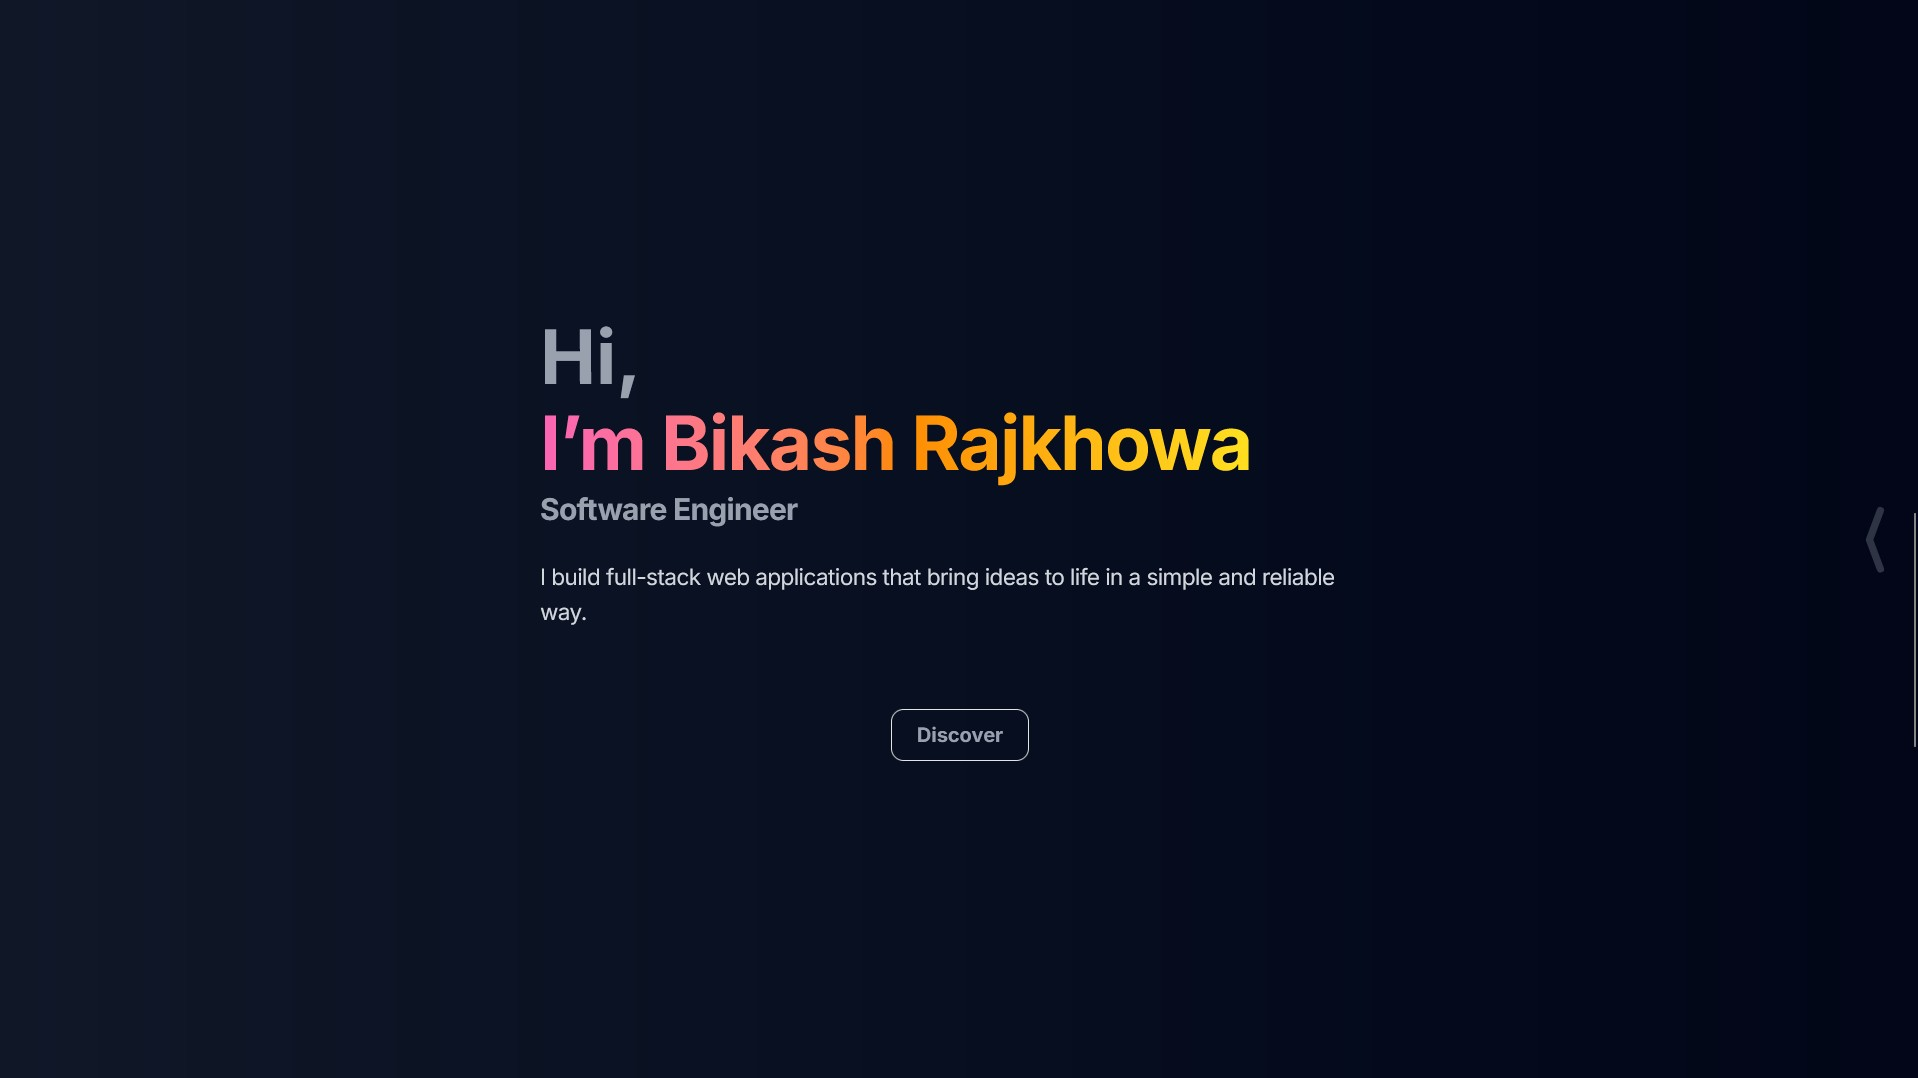
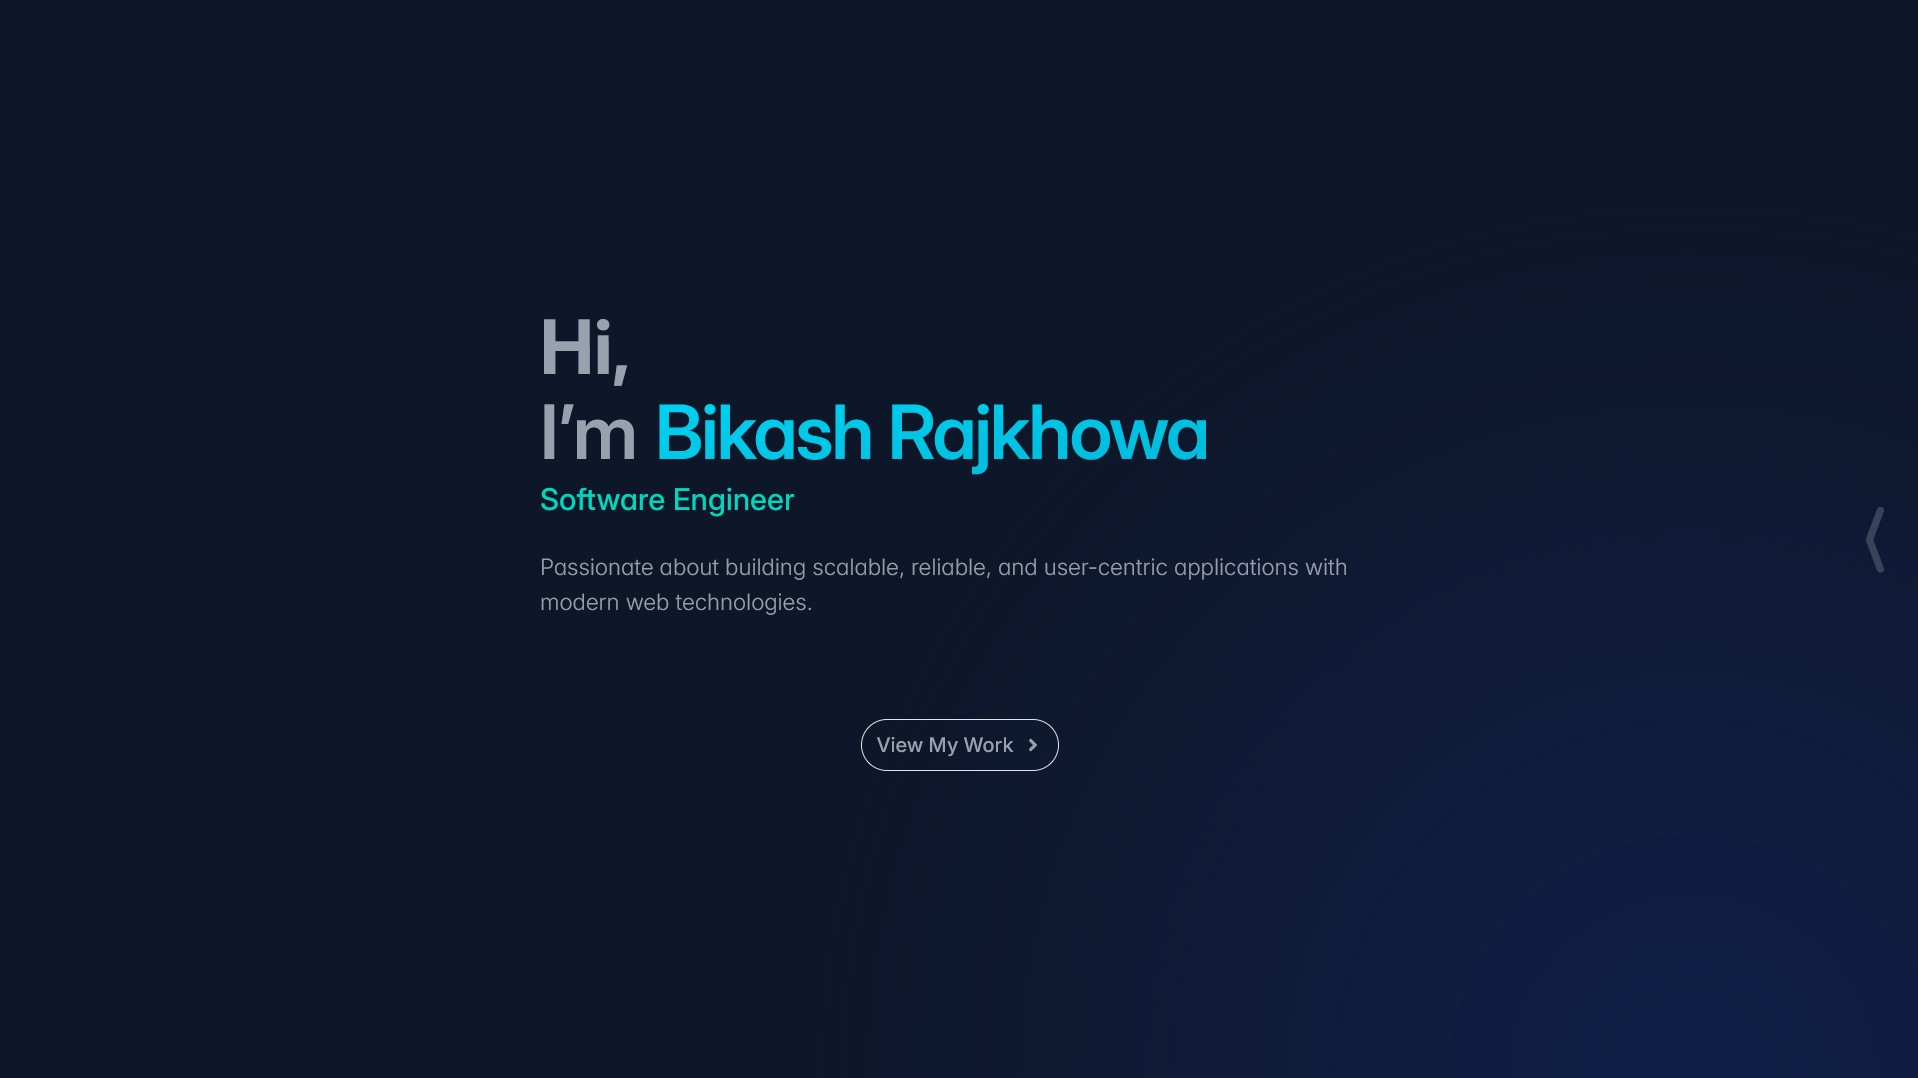
feat: :zap: minor UI improvement, updated new screenschots

diff --git a/app/page.jsx b/app/page.jsx
@@ -3,7 +3,7 @@
 import { useState } from "react";
 
 import { motion } from "framer-motion";
-import { IoDocumentTextOutline } from "react-icons/io5";
+import { TbFileCv } from "react-icons/tb";
 
 import Hero from "@/components/Hero";
 import About from "@/components/About";
@@ -23,49 +23,47 @@ export default function Home() {
     <>
       <Hero slideScreen={slideScreen} setSlideScreen={setSlideScreen} />
       <Modal />
-      <motion.div
-        initial={{ opacity: 0, y: 20 }}
-        animate={slideScreen ? { opacity: 1, y: 0 } : { opacity: 0, y: 20 }}
-        transition={{ duration: 0.4 }}
-      >
+      <>
         <main className={styles}>
           <section
             id="discover"
             className="min-h-screen flex flex-col xl:pl-140"
           >
-            <div className="fixed z-100 top-0 left-0 w-full backdrop-blur-lg px-2 py-3 xl:hidden">
-              <div className="flex justify-between items-center text-lg font-bold flex gap-3 pr-4">
-                <div
-                  className="flex gap-0.5"
-                  onClick={() => setSlideScreen(!slideScreen)}
-                >
-                  <ChevronRight className="mt-0.5 " /> Bikash | Portfolio
-                </div>
+            {slideScreen && (
+              <div className="fixed z-100 top-0 left-0 w-full backdrop-blur-lg px-2 py-3 xl:hidden">
+                <div className="flex justify-between items-center text-lg font-bold flex gap-3 pr-4">
+                  <div
+                    className="flex gap-0.5"
+                    onClick={() => setSlideScreen(!slideScreen)}
+                  >
+                    <ChevronRight className="mt-0.5 " /> Bikash | Portfolio
+                  </div>
 
-                <div className="flex gap-5 font-medium text-md">
-                  <a
-                    href="/cv/BIKASH_RAJKHOWA_SOFTWARE_ENGINEER_CV.pdf"
-                    title="View Full Resume"
-                    target="_blank"
-                  >
-                    <IoDocumentTextOutline size={23} />
-                  </a>
-                  <a
-                    aria-label="Scroll to footer"
-                    href="#footer"
-                    title="Connect"
-                  >
-                    <MessagesSquare size={23} />
-                  </a>
+                  <div className="flex gap-5 font-medium text-md">
+                    <a
+                      href="/cv/BIKASH_RAJKHOWA_SOFTWARE_ENGINEER_CV.pdf"
+                      title="View Full Resume"
+                      target="_blank"
+                    >
+                      <TbFileCv size={23} />
+                    </a>
+                    <a
+                      aria-label="Scroll to footer"
+                      href="#footer"
+                      title="Connect"
+                    >
+                      <MessagesSquare size={23} />
+                    </a>
+                  </div>
                 </div>
               </div>
-            </div>
-            <About />
-            <Experience />
-            <Projects />
+            )}
+            <About slideScreen={slideScreen} />
+            <Experience slideScreen={slideScreen} />
+            <Projects slideScreen={slideScreen} />
           </section>
         </main>
-      </motion.div>
+      </>
       <footer id="footer" className={styles}>
         <motion.div
           initial={{ opacity: 0, y: 20 }}

diff --git a/components/Sidebar.jsx b/components/Sidebar.jsx
@@ -1,7 +1,12 @@
 "use client";
 
 import React, { useState } from "react";
+
+import Link from "next/link";
 import { motion } from "framer-motion";
+
+import { MdArrowOutward } from "react-icons/md";
+import { IoDocumentText } from "react-icons/io5";
 
 import GetInTouch from "./GetInTouch";
 
@@ -19,16 +24,32 @@ function Sidebar() {
       initial={{ opacity: 0, y: 20 }}
       animate={{ opacity: 1, y: 0 }}
       transition={{ duration: 0.3, delay: 0.2 }}
-      className="absolute top-19 right-8 hidden lg:flex flex-col items-start justify-between p-4 gap-20"
+      className="absolute top-19 right-8 hidden lg:flex flex-col items-start justify-between p-4 gap-24"
     >
       <div className="space-y-1">
         <h1 className="text-5xl font-bold text-gray-100">Bikash Rajkhowa</h1>
-        <h2 className="text-2xl font-normal text-gray-300 mt-2">
+        <h2 className="text-2xl font-medium text-gray-300 mt-2">
           Software Engineer
         </h2>
+
+        <Link
+          className="flex gap-2 group cursor-pointer mt-4"
+          href="/cv/BIKASH_RAJKHOWA_SOFTWARE_ENGINEER_CV.pdf"
+          target="_blank"
+        >
+          <IoDocumentText size={18} className="mt-0.5 text-gray-300" />
+          <h1 className="text-md font-medium tracking-tight mb-6 text-gray-200 group-hover:text-teal-300">
+            View Résumé
+          </h1>
+          <MdArrowOutward
+            size={15}
+            className="mt-1.5 transition duration-100 ease-in group-hover:text-teal-300
+                            group-hover:-translate-y-1 group-hover:translate-x-1.5"
+          />
+        </Link>
       </div>
 
-      <div className="flex flex-col gap-5.5 w-full mt-10">
+      <div className="flex flex-col gap-6 w-full">
         {links.map((link, idx) => {
           const isActive = selectedLink === link.href;
 
@@ -36,7 +57,7 @@ function Sidebar() {
             <div key={idx} className="flex items-center gap-5 cursor-pointer">
               <motion.div
                 initial={{ width: 0 }}
-                animate={{ width: isActive ? 90 : 30 }}
+                animate={{ width: isActive ? 85 : 40 }}
                 transition={{ duration: 0.08 }}
                 className={`h-0.5 bg-gray-200 ${
                   isActive ? "opacity-100" : "opacity-50"
@@ -57,7 +78,7 @@ function Sidebar() {
           );
         })}
       </div>
-      <div className="pt-40">
+      <div className="pt-25">
         <GetInTouch />
       </div>
     </motion.div>

diff --git a/components/Experience.jsx b/components/Experience.jsx
@@ -1,9 +1,10 @@
-import Link from "next/link";
 import React from "react";
+
+import { motion } from "framer-motion";
 
 import { MdArrowOutward } from "react-icons/md";
 
-function Experience() {
+function Experience({ slideScreen }) {
   const workExp = [
     {
       duration: "2022-2023",
@@ -73,7 +74,13 @@ function Experience() {
   ];
 
   return (
-    <div id="experience" className="pt-22 min-h-95 lg:h-auto max-w-2xl">
+    <motion.div
+      initial={{ opacity: 0, y: 20 }}
+      animate={slideScreen ? { opacity: 1, y: 0 } : { opacity: 0, y: 20 }}
+      transition={{ duration: 0.4 }}
+      id="experience"
+      className="pt-22 min-h-95 lg:h-auto max-w-2xl"
+    >
       <h1 className="text-md font-bold mb-6 text-gray-300">EXPERIENCE</h1>
 
       <div className="max-w-3xl space-y-16 md:space-y-4 group/parent">
@@ -127,21 +134,7 @@ function Experience() {
           </a>
         ))}
       </div>
-
-      <Link
-        className="flex gap-2 group cursor-pointer pt-15 md:py-8"
-        href="/cv/BIKASH_RAJKHOWA_SOFTWARE_ENGINEER_CV.pdf"
-        target="_blank"
-      >
-        <h1 className="text-md font-semibold tracking-tight mb-6 text-gray-200 group-hover:text-teal-300">
-          View Full Résumé
-        </h1>
-        <MdArrowOutward
-          className="mt-2 transition duration-100 ease-in group-hover:text-teal-300
-                            group-hover:-translate-y-1 group-hover:translate-x-1.5"
-        />
-      </Link>
-    </div>
+    </motion.div>
   );
 }
 

diff --git a/components/Hero.jsx b/components/Hero.jsx
@@ -7,7 +7,6 @@ import {
   IconChevronCompactRight,
 } from "@tabler/icons-react";
 import { FaChevronCircleRight } from "react-icons/fa";
-import { FaAngleRight } from "react-icons/fa";
 
 function Hero({ slideScreen, setSlideScreen }) {
   const bgColor = "";
@@ -65,11 +64,11 @@ function Hero({ slideScreen, setSlideScreen }) {
                 aria-label="Discover portfolio button"
                 onClick={() => setSlideScreen(!slideScreen)}
                 variant="outline"
-                className="bg-transparent rounded-full text-md p-4 md:p-5 font-semibold cursor-pointer
-                hover:bg-teal-400 hover:scale-110 transition-all duration-300 ease-out"
+                className="bg-transparent rounded-full text-sm font-medium p-4 md:p-5 cursor-pointer
+                hover:bg-teal-400 transition-all duration-300 ease-out tracking-tight"
               >
                 View My Work{" "}
-                <FaAngleRight className="transition-transform group-hover:translate-x-2 transition-all duration-400" />
+                <FaChevronCircleRight className="transition-transform group-hover:scale-150 transition-all duration-400" />
               </Button>
             </a>
           </div>

diff --git a/components/Projects.jsx b/components/Projects.jsx
@@ -1,10 +1,12 @@
 "use client";
 import React from "react";
 
+import { motion } from "framer-motion";
+
 import { useAppContext } from "@/context/AppContext";
 import { MdArrowOutward } from "react-icons/md";
 
-function Projects() {
+function Projects({ slideScreen }) {
   const { openModal, setScreenshots } = useAppContext();
 
   const projects = [
@@ -100,7 +102,13 @@ function Projects() {
   ];
 
   return (
-    <div id="projects" className="py-22 min-h-95 lg:h-auto max-w-2xl">
+    <motion.div
+      initial={{ opacity: 0, y: 20 }}
+      animate={slideScreen ? { opacity: 1, y: 0 } : { opacity: 0, y: 20 }}
+      transition={{ duration: 0.4 }}
+      id="projects"
+      className="py-22 min-h-95 lg:h-auto max-w-2xl"
+    >
       <h1 className="text-md font-bold mb-6 text-gray-300">PROJECTS</h1>
 
       <div className="max-w-3xl space-y-12 md:space-y-8 group/parent">
@@ -201,7 +209,7 @@ function Projects() {
           );
         })}
       </div>
-    </div>
+    </motion.div>
   );
 }
 

diff --git a/components/About.jsx b/components/About.jsx
@@ -1,10 +1,18 @@
 import React from "react";
 
+import { motion } from "framer-motion";
+
 import Skills from "./Skills";
 
-function About() {
+function About({ slideScreen }) {
   return (
-    <div id="about" className="pt-22 min-h-95 lg:h-auto max-w-2xl">
+    <motion.div
+      initial={{ opacity: 0, y: 20 }}
+      animate={slideScreen ? { opacity: 1, y: 0 } : { opacity: 0, y: 20 }}
+      transition={{ duration: 0.4 }}
+      id="about"
+      className="pt-22 min-h-95 lg:h-auto max-w-2xl"
+    >
       <h1 className="text-md font-bold mb-6 text-gray-300">ABOUT</h1>
       <p className="mb-4 font-light text-gray-300/90">
         I'm a software engineer specializing in building fast, reliable, and
@@ -34,7 +42,7 @@ function About() {
         gaming for some fun, or out on my bike enjoying the outdoors.
       </p>
       <Skills />
-    </div>
+    </motion.div>
   );
 }
 

diff --git a/app/layout.jsx b/app/layout.jsx
@@ -117,7 +117,7 @@ export default function RootLayout({ children }) {
                 "https://www.linkedin.com/in/bikash-rajkhowa-857a191a6/",
               ],
               jobTitle:
-                "Software Engineer - (Nextjs, React, Tailwindcss, Nodejs, Express, Mongo, PG, AWS)",
+                "Software Engineer - (React, Nextjs, Tailwindcss, Nodejs, Express, Mongo, PG, AWS)",
             }),
           }}
         />
